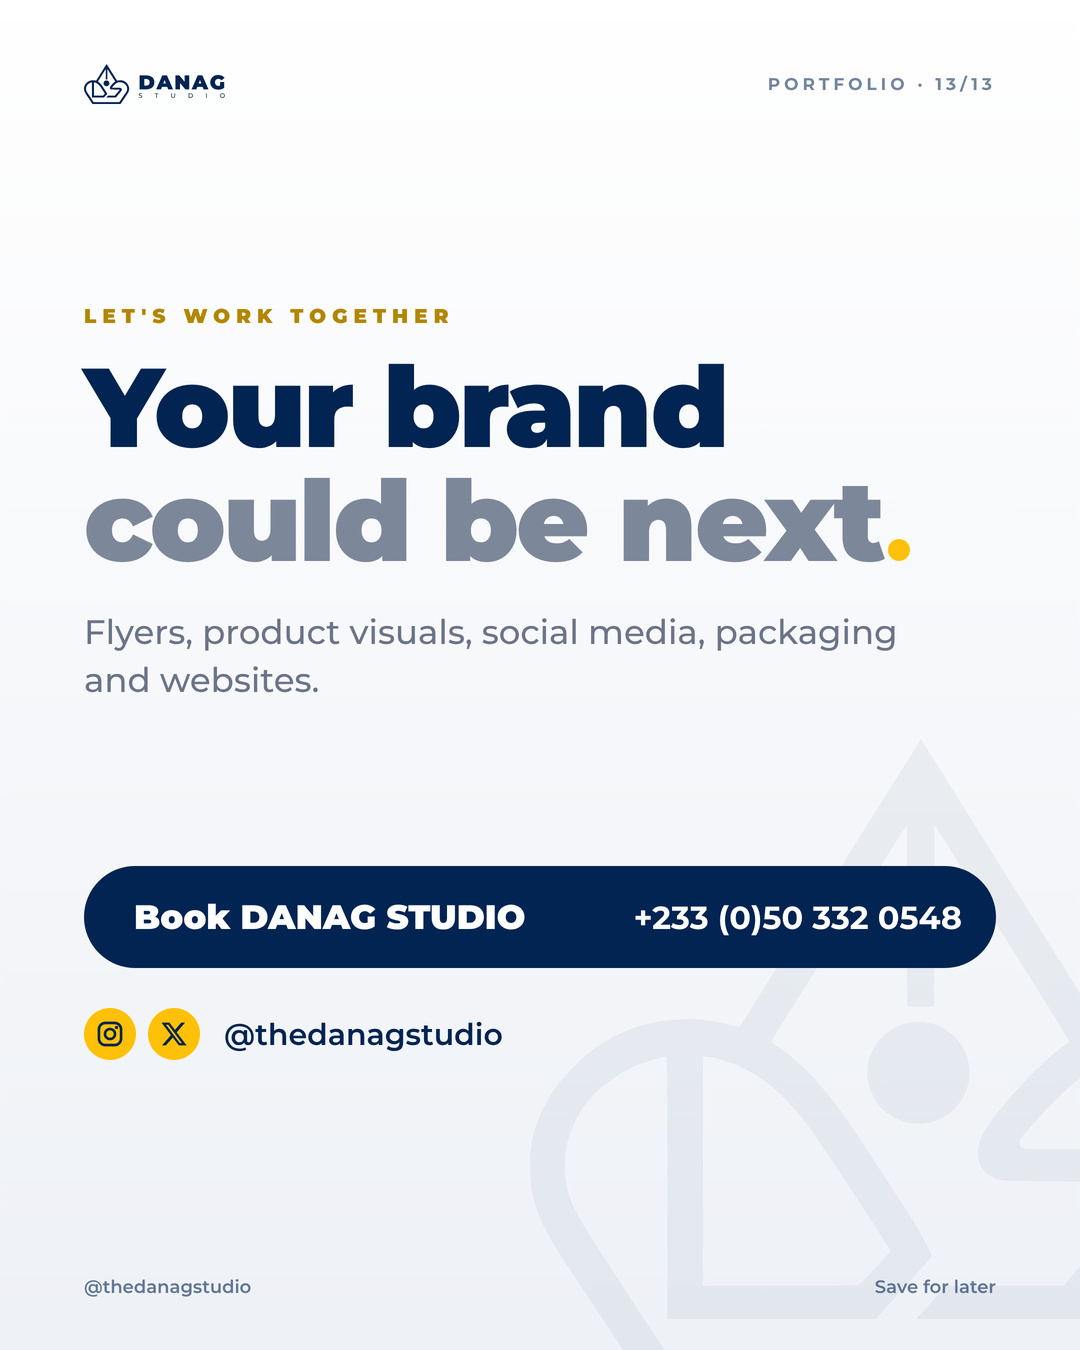
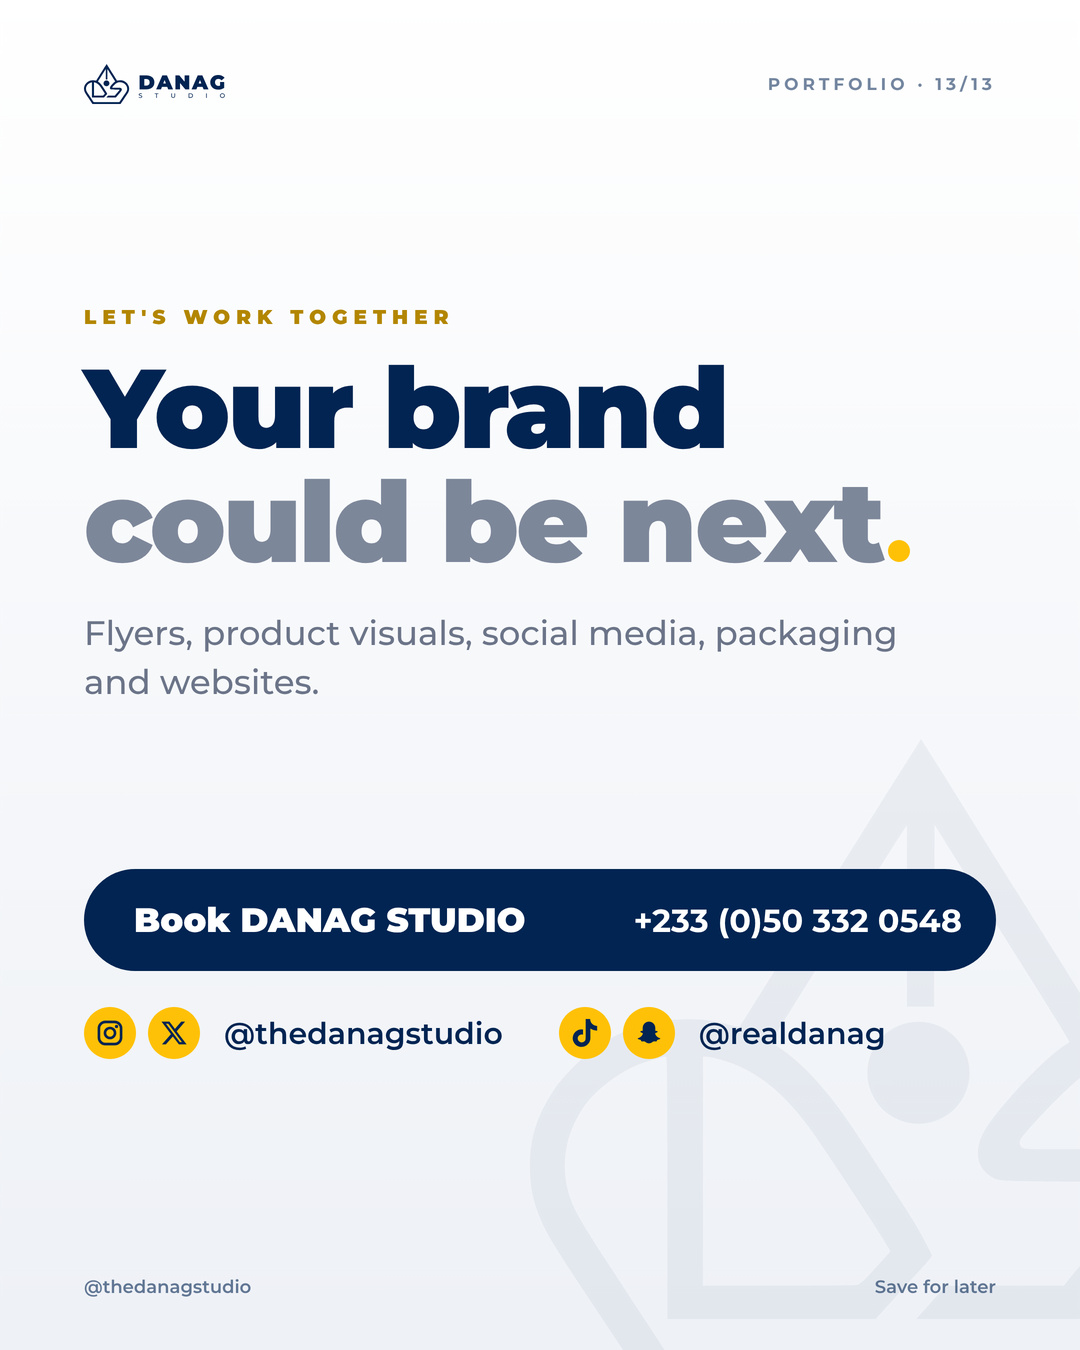
Portfolio CTA: add TikTok + Snapchat (@realdanag)
Claude-Session: https://claude.ai/code/session_016a1VN4ugzb4H8TCZTdtQAj

diff --git a/portfolio/src/render_portfolio.py b/portfolio/src/render_portfolio.py
@@ -76,7 +76,9 @@ def cta(d):
 <div class="p1" style="font-size:34px;margin-top:30px">Flyers, product visuals, social media, packaging and websites.</div></div>
 <div><div style="display:flex;align-items:center;justify-content:space-between;background:{"#FFC107" if d else "#022452"};border-radius:70px;padding:30px 34px 30px 50px;color:{"#022452" if d else "#fff"}">
 <span style="font-weight:900;font-size:34px">Book DANAG STUDIO</span><span style="font-weight:700;font-size:32px">+233 (0)50 332 0548</span></div>
-<div style="margin-top:40px;display:flex;align-items:center;gap:12px;font-weight:600;font-size:30px">{ic("IG")}{ic("X")}<span style="margin-left:12px">@thedanagstudio</span></div></div></div>'''
+<div style="margin-top:36px;display:flex;gap:56px;font-weight:600;font-size:30px">
+<div style="display:flex;align-items:center;gap:12px">{ic("IG")}{ic("X")}<span style="margin-left:12px">@thedanagstudio</span></div>
+<div style="display:flex;align-items:center;gap:12px">{ic("TT")}{ic("SC")}<span style="margin-left:12px">@realdanag</span></div></div></div></div>'''
 SL = [
  lambda d: text('SELECTED WORK · 2025–2026', 'Work that', 'wears the crown', 'A few favourite projects from DANAG STUDIO, from luxury fragrance and fashion to flyers, packaging and websites.')
            + hero('my-083', 'tf-gmg-red', 'ss-178'),
